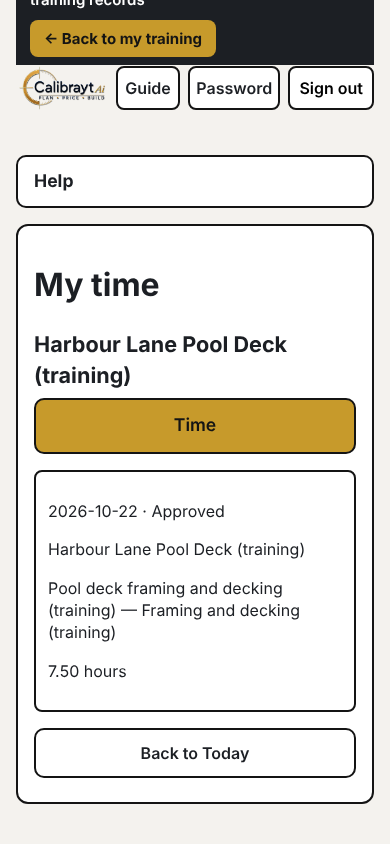
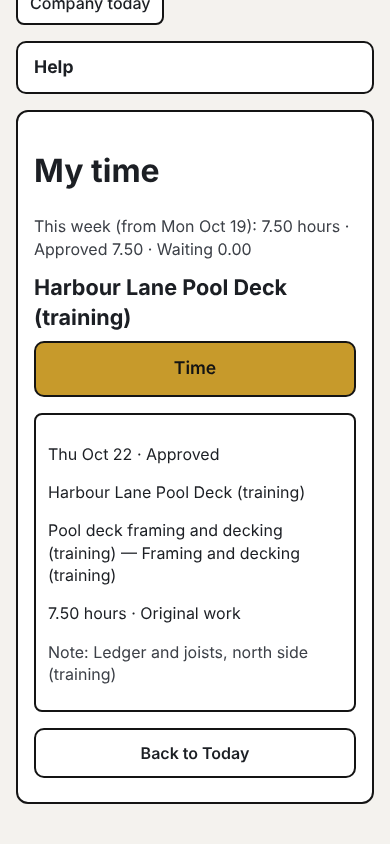
Field Crew module 5 on the final Field time screens (docs/operations/field-time.md)
- f05-send-time: Scheduled today now chooses the booked work (the Work box opens when the item has several
  works); the "Choose different work" workaround text and "Work not found" are gone. The real messages are
  taught: "Choose the work you did.", "Enter the hours worked.", the future-date and 24-hour limits.
- f05-my-time-review: the week line (This week (from Mon …): hours · Approved · Waiting · Returned), each
  entry's status, kind of work and "Waiting for approval".
- f05-returned-time: the red line on Today ("1 time entry was returned to you. Fix and send again on My
  time."), "Returned: <reason>", Fix and send again, "Time sent again for approval."
- f05-approved: Ben approves in the office; Approved on My time; corrections are the office's (Replaced).
- New f05-company-time (Shop / company time on My time, once Ben has pressed "Set up shop and company
  time"; never billed to a customer) and uat-f05-company-time; uat-f05-time, -my-time and -returned
  updated. On the Field map's TIME stage. 27 lessons, 17 Field tests.
- Time pictures re-captured against the merged code (f05-time*, new f05-my-time-week, f05-today-returned,
  f05-company-time; f05-my-time.png no longer used); the capture walk returns, fixes and approves Kevin's
  time and sends shop time through the real pages. Walk and test counts updated; the module-5 test checks
  the final wording.

pytest (field crew, training, workflow map, field time/labour): 90 passed. Walks: evidence_field_crew 8,
[…]

diff --git a/app/training/field_crew.py b/app/training/field_crew.py
@@ -449,118 +449,130 @@ M04 = Module(
 )
 
 # ====================================================================================== 5
-# TIME ENTRY LESSONS (Joel, 22 Oct 2026): everything about Time, My time, returned time and Ben's approval is in
-# this module only (f05-send-time, f05-my-time-review, f05-returned-time, f05-approved; shots f05-time*.png and
-# f05-my-time*.png from the "time" steps of tools/training/capture_field_crew_shots.mjs; UAT uat-f05-time*).
-# Written against the Field Time screens as they are on this branch. The time/labour workflow is being finished
-# on v1/field-time-labour-2026-10-22 (final buttons and statuses: docs/operations/field-time.md): after it merges,
-# re-check these labels and re-capture these pictures here, and nowhere else.
+# TIME ENTRY LESSONS (Joel, 22 Oct 2026): everything about Time, My time, returned time, Ben's approval and
+# shop / company time is in this module only (f05-send-time, f05-my-time-review, f05-returned-time,
+# f05-approved, f05-company-time; shots f05-time*.png, f05-my-time*.png, f05-today-returned.png and
+# f05-company-time.png from the TIME ENTRY steps of tools/training/capture_field_crew_shots.mjs; UAT
+# uat-f05-time*, uat-f05-my-time, uat-f05-returned, uat-f05-approved, uat-f05-company-time). Written against
+# the final Field time screens recorded in docs/operations/field-time.md (merged 22 Oct 2026). When those
+# screens change, re-check these labels and re-capture these pictures here, and nowhere else.
 M05 = Module(
     key="f05", pathway=P, number=5, title="Recording field work",
-    summary="Send your daily hours on the iPhone against the job and the work, check them on My time, fix time "
-            "Ben returns, see when Ben approves them, and record extra "
+    summary="Send your daily hours on the iPhone against the job and the work, check your week on My time, fix "
+            "time Ben returns, see when Ben approves it, record shop and company time, and record extra "
             "work the customer asks for.",
     roles=CREW,
     lessons=(
         Lesson(
             key="f05-send-time", title="Send your hours",
-            what="Send the hours you worked today on the job.",
+            what="Send the hours you worked today on the job, against the work you did.",
             why="The office checks your hours against the job's work before they count. Send them every day.",
             steps=(
-                Step(title="Open Time", app=F, where="Today → Enter time (or Time)",
-                     do="Tap Enter time under the job",
-                     expect="Time, the job name, Date (today), Scheduled today with your booked work, Choose different "
-                            "work, Hours, Note and Send time.",
-                     if_wrong="Asked to confirm the job? Do lesson 'Confirm the job you are on' first.",
+                Step(title="Open Time", app=F, where="Today → Enter time (on the job's card), or Time",
+                     do="Tap Enter time on the job's card",
+                     expect="Time, the job name, Date (today), Scheduled today with a button for your booked work, "
+                            "Choose different work, Hours, Note and Send time.",
+                     if_wrong="Asked to choose the job? Do lesson 'Confirm the job you are on' first. A date in "
+                              "the future is refused: 'Time cannot be recorded for a future date.'",
                      shot="f05-time-scheduled.png", endpoint="field.time_entry"),
-                Step(title="Pick the work", app=F, where="Time → Choose different work",
-                     do="Tap Choose different work. In Work item pick the job's work. In Work pick what you did",
-                     enter=f"Work item: {WORK}. Work: {ACTIVITY}",
-                     expect="Both boxes show your choice.",
-                     why="The Scheduled today button only fills in the work item. When the office booked a work item "
-                         "and not the exact work, you still choose the Work yourself.",
-                     if_wrong="'Work not found.' after Send time means Work was empty: tap Choose different work and "
-                              "pick the Work. Your work is not in the list? Call the office.",
+                Step(title="Pick the work", app=F, where="Time → Scheduled today",
+                     do="Tap the button with your booked work. If a Work box opens, pick the work you did in it",
+                     enter=f"{WORK}, then Work: {ACTIVITY}",
+                     expect="The work is chosen. When the booked work item has only one work, it is filled in for "
+                            "you.",
+                     why="Did something else today? Tap Choose different work and pick the Work item and the "
+                         "Work. Recent work shows what you used last on this job.",
+                     if_wrong="'Choose the work you did.' (or '... on <work item>') means the Work box is empty: "
+                              "pick one. Your work is not there? Call the office.",
                      shot="f05-time.png", endpoint="field.time_entry"),
                 Step(title="Type your hours and a note", app=F, where="Time → Hours and Note",
-                     do="Type the hours. Add a short note",
+                     do="Type the hours. Add a short note if it helps",
                      enter="Hours: 8. Note: Ledger and joists, north side (training)",
-                     expect="Hours in quarter hours: 7.5 is seven and a half hours. Up to 16 hours in one entry.",
-                     if_wrong="'Check the hours and work.' means the hours or the work are missing."),
+                     expect="Hours go in quarter hours: 7.5 is seven and a half hours. Up to 16 hours in one entry "
+                            "and 24 in a day.",
+                     if_wrong="'Enter the hours worked.' means Hours is empty. 'Hours for one day cannot be more "
+                              "than 24.00.' means your day adds up to too much."),
                 Step(title="Send it", app=F, where="Time → Send time",
                      do="Tap Send time",
                      expect="Time sent for approval. My time opens and lists it as Submitted.",
-                     if_wrong="No signal? Time needs a connection. Write your hours down and send them when you have "
-                              "a signal.",
+                     if_wrong="No signal? Time needs a connection. Write your hours down and send them when you "
+                              "have a signal.",
                      shot="f05-time-sent.png", endpoint="field.my_time"),
             ),
-            exercise=f"Send 8 hours on {JOB} for today with a short note, and find it on My time.",
+            exercise=f"Send 8 hours on {JOB} for today against {ACTIVITY}, with a short note, and find it on My "
+                     "time.",
         ),
         Lesson(
-            key="f05-my-time-review", title="Check your hours on My time",
-            what="Look over the hours you sent, every day, on My time.",
+            key="f05-my-time-review", title="Check your week on My time",
+            what="Look over the hours you sent this week, every day, on My time.",
             why="My time is your own record: what you sent, for which job and work, and where it is with Ben.",
             steps=(
-                Step(title="Open My time", app=F, where="Today → My time (or Time → My time)",
+                Step(title="Open My time", app=F, where="Today → My time",
                      do="Tap My time",
-                     expect="My time, then your hours newest first. Each shows the date and its status, the job, "
-                            "the work item — the work, and the hours (for example 8.00 hours).",
+                     expect="My time. At the top: This week (from Mon …): your hours · Approved · Waiting · "
+                            "Returned. Then your entries, newest first.",
                      if_wrong="'No time recorded yet.' means you have not sent any time.",
+                     shot="f05-my-time-week.png", endpoint="field.my_time"),
+                Step(title="Read each entry", app=F, where="My time → an entry",
+                     do="Read the date and status, the job, the work item — work, and the hours",
+                     expect="Submitted: 'Waiting for approval. Ask the office if something is wrong; they can "
+                            "return it to you.' Returned: Ben sent it back. Approved: it counts. Replaced: the "
+                            "office corrected it after approval. The kind of work shows too (Original work, "
+                            "Extra work, Company time).",
+                     if_wrong="An entry is missing? Send it now from Time. Two for the same work and day? Tell "
+                              "Ben; do not send it again.",
                      shot="f05-time-sent.png", endpoint="field.my_time"),
-                Step(title="Read the status", app=F, where="My time → the line above each entry",
-                     do="Read the word after the date",
-                     expect="Submitted: Ben has not looked yet. Returned: Ben sent it back to fix. Approved: Ben "
-                            "accepted it. Replaced: the office corrected it after approval.",
-                     if_wrong="An entry is missing? Send it now from Time. Two for the same work and day? Tell Ben, "
-                              "do not send it again."),
                 Step(title="Check it is right", app=F, where="My time → each entry",
                      do="Check the date, the job, the work and the hours",
                      expect="Every day you worked is there once, on the right job and work.",
                      if_wrong="Wrong but still Submitted? Call Ben; he can return it to you to fix."),
             ),
-            exercise="After sending your Harbour Lane hours, open My time and read the date, the work, the hours and "
-                     "the status.",
+            exercise="After sending your Harbour Lane hours, open My time and read the week's hours at the top and "
+                     "your entry's status.",
         ),
         Lesson(
-            key="f05-returned-time", title="Time the office sent back",
-            what="See what happened to your hours and fix any the office returned.",
-            why="Returned time is not lost. Fix it and send it again.",
+            key="f05-returned-time", title="Time Ben sent back",
+            what="See time Ben returned, and fix it and send it again.",
+            why="Returned time is not lost. Fix what the reason says and send it again.",
             steps=(
-                Step(title="Open My time", app=F, where="Today → My time",
-                     do="Tap My time",
-                     expect="Your hours, newest first. Each shows the date and Submitted, Approved or Returned.",
-                     if_wrong="'No time recorded yet.' means you have not sent any time.",
-                     shot="f05-my-time.png", endpoint="field.my_time"),
-                Step(title="Fix returned time", app=F, where="My time → Returned → Fix and send again",
-                     do="Tap Fix and send again",
-                     expect="Time opens with Returned: and the office's reason at the top, and your hours filled in.",
-                     if_wrong="No Fix and send again button? Only Returned time can be fixed. Approved time is done.",
+                Step(title="See it on Today", app=F, where="Field → Today (red line at the top)",
+                     do="Tap the red line: '1 time entry was returned to you. Fix and send again on My time.'",
+                     expect="My time opens.",
+                     if_wrong="No red line? Nothing was returned. My time also says how many entries were returned.",
+                     shot="f05-today-returned.png", endpoint="field.today"),
+                Step(title="Read the reason", app=F, where="My time → the Returned entry",
+                     do="Read 'Returned: …' under the entry",
+                     expect="Ben's reason, for example 'Returned: You left at 3:30. Please send 7.5 hours.', and "
+                            "Fix and send again.",
+                     if_wrong="Do not understand the reason? Call Ben before you send it again.",
                      shot="f05-time-returned.png", endpoint="field.my_time"),
-                Step(title="Change it and send", app=F, where="Time (returned)",
-                     do="Change what the reason says. Tap Send time",
+                Step(title="Fix it and send it again", app=F, where="My time → Fix and send again",
+                     do="Tap Fix and send again. Change what the reason says. Tap Send time",
                      enter="For example: Hours 7.5",
-                     expect="Time sent for approval. My time shows it as Submitted again.",
-                     if_wrong="Do not understand the reason? Call the office before you send it again.",
+                     expect="Time opens with Returned: and the reason at the top and your entry filled in. After "
+                            "Send time: 'Time sent again for approval.' My time shows it as Submitted again.",
+                     if_wrong="No Fix and send again button? Only Returned time can be fixed. Approved time is done.",
                      shot="f05-time-fix.png", endpoint="field.time_entry"),
             ),
-            exercise="When the trainer returns your Harbour Lane time on the training site, fix it from My time and "
-                     "send it again.",
+            exercise="When the trainer returns your Harbour Lane time on the training site, open it from the red line "
+                     "on Today, fix it and send it again.",
         ),
         Lesson(
             key="f05-approved", title="When Ben approves your hours",
             what="See your hours approved, and know what happens if something is still wrong after that.",
-            why="Approved hours are final. Only the office can correct them, and the first entry is kept.",
+            why="Approved hours are final and count for the job. Only the office can correct them, and the first "
+                "entry is kept.",
             steps=(
                 Step(title="Ben approves (the office's step)", app=F, where="Nothing to do on Field",
-                     do="Wait for Ben. He checks your hours in the office and presses Approve, or Return with a "
+                     do="Wait for Ben. In the office he opens your entry and presses Approve, or Return with a "
                         "reason",
                      expect="You do nothing on Field for this step.",
                      if_wrong="Waiting a long time? Ask Ben. Field does not send a message when he approves."),
                 Step(title="See it approved", app=F, where="Today → My time",
                      do="Tap My time",
-                     expect="The entry says Approved. There is no Fix and send again button on it.",
-                     if_wrong="Still Submitted? Ben has not looked yet. Returned? Do lesson 'Time the office sent "
-                              "back'.",
+                     expect="The entry says Approved, with no Fix and send again and no 'Waiting for approval'. The "
+                            "week line counts it under Approved.",
+                     if_wrong="Still Submitted? Ben has not looked yet. Returned? Do lesson 'Time Ben sent back'.",
                      shot="f05-time-approved.png", endpoint="field.my_time"),
                 Step(title="Wrong after it was approved", app=F, where="My time",
                      do="Do not send the same hours again. Call Ben",
@@ -570,6 +582,32 @@ M05 = Module(
             ),
             exercise="When Ben approves your fixed Harbour Lane hours on the training site, open My time and find "
                      "Approved.",
+        ),
+        Lesson(
+            key="f05-company-time", title="Shop and company time",
+            what="Send hours that are not for a customer's job: the shop and yard, equipment upkeep, picking up "
+                 "material, safety meetings.",
+            why="Company time is never billed to a customer. Keep it off the customer's job.",
+            steps=(
+                Step(title="Open Shop / company time", app=F, where="Today → My time → Shop / company time",
+                     do="Tap My time, then Shop / company time",
+                     expect="Time for 'Shop and company time', with 'Company time: not a customer's job, never "
+                            "billed to a customer.'",
+                     why="The office sets it up once (Set up shop and company time). Until then the button is not "
+                         "on My time.",
+                     if_wrong="No Shop / company time button? Ask Ben to set it up.",
+                     shot="f05-company-time.png", endpoint="field.my_time"),
+                Step(title="Pick the work and send", app=F, where="Shop and company time → Work",
+                     do="Pick the Work, type the hours, tap Send time",
+                     enter="Work: Equipment and vehicle upkeep. Hours: 1.5",
+                     expect="Time sent for approval. My time lists it with Company time.",
+                     why="The Works are: Shop and yard, Equipment and vehicle upkeep, Material pickup and "
+                         "deliveries, Safety meetings and training, Office and estimating. There is no Extra work "
+                         "here, and it does not change the job you are on today.",
+                     if_wrong="'Choose the work you did.' means Work is empty."),
+            ),
+            exercise="Once Ben has set it up on the training site, send 1.5 hours of Equipment and vehicle upkeep as "
+                     "shop / company time and find it on My time.",
         ),
         Lesson(
             key="f05-extra-work", title="Extra work the customer asks for",
@@ -896,21 +934,29 @@ UAT_CASES = (
        "The plan PDF opens on the iPhone. Back to the job returns to the job."),
     _u("uat-f05-time", "f05", "Send time",
        "Field → Today → Enter time",
-       "Tap Choose different work, pick the Work item and the Work, type 8 hours and a note, tap Send time.",
-       "Time sent for approval; My time lists the day as Submitted."),
+       "Tap the Scheduled today button for your work (pick the Work if the box opens), type 8 hours and a note, "
+       "tap Send time.",
+       "Time sent for approval; My time lists the day as Submitted and the week line counts it under Waiting."),
     _u("uat-f05-my-time", "f05", "Review hours on My time",
        "Field → Today → My time, after sending today's hours",
        "Read the newest entry.",
-       "It shows today's date, Submitted, the job, the work item and the work, and the hours you sent."),
+       "The week line shows this week's hours by Approved, Waiting and Returned; the entry shows today's date, "
+       "Submitted, the job, the work item and the work, the hours and 'Waiting for approval'."),
     _u("uat-f05-returned", "f05", "Fix returned time",
-       "Field → My time, after the office returns your time with a reason",
-       "Tap Fix and send again, change the hours, tap Send time.",
-       "Time opens with Returned: and the reason; after sending, My time shows it as Submitted."),
+       "Field → Today, after the office returns your time with a reason",
+       "Tap the red returned-time line, then Fix and send again, change the hours, tap Send time.",
+       "Today's line opens My time with 'Returned: <reason>'; Time opens with the entry filled in; after sending: "
+       "'Time sent again for approval.' and My time shows it as Submitted."),
     _u("uat-f05-approved", "f05", "Ben approves the hours (Ben's step, then the crew's check)",
        "Office: Ben opens the time waiting for review and presses Approve. Then Field → My time on the iPhone",
        "After Ben approves your fixed entry, open My time.",
        "The entry says Approved and has no Fix and send again button. A failing result here goes on Ben's "
        "administrator dashboard."),
+    _u("uat-f05-company-time", "f05", "Shop / company time",
+       "Office first: Ben presses Set up shop and company time (Time review, once). Then Field → My time",
+       "Tap Shop / company time, pick Equipment and vehicle upkeep, type 1.5, tap Send time.",
+       "Time sent for approval; My time lists it as Company time; it is not on the customer's job and Today's "
+       "job is unchanged."),
     _u("uat-f05-extra-work", "f05", "Record extra work",
        "Field → Today → Extra work",
        "Describe the customer's request, name a new work item, tap Record extra work.",

diff --git a/tests/test_field_crew_training.py b/tests/test_field_crew_training.py
@@ -365,7 +365,7 @@ def test_time_entry_my_time_correction_and_approval_are_taught_in_module_5_only(
     kept in module 5 so they are re-captured in one place after the time/labour branch merges."""
     f05 = next(m for m in C.modules_for(C.PATHWAY_FIELD_CREW, "FIELD") if m.key == "f05")
     keys = [lesson.key for lesson in f05.lessons]
-    for key in ("f05-send-time", "f05-my-time-review", "f05-returned-time", "f05-approved"):
+    for key in ("f05-send-time", "f05-my-time-review", "f05-returned-time", "f05-approved", "f05-company-time"):
         assert key in keys
     time_endpoints = {"field.time_entry", "field.my_time"}
     for module, lesson in _field_lessons():
@@ -373,11 +373,18 @@ def test_time_entry_my_time_correction_and_approval_are_taught_in_module_5_only(
             continue
         assert not any(s.endpoint in time_endpoints for s in lesson.steps), lesson.key
     cases = {c.key: c for c in C.uat_for(C.PATHWAY_FIELD_CREW, "FIELD")}
-    for key in ("uat-f05-time", "uat-f05-my-time", "uat-f05-returned", "uat-f05-approved"):
+    for key in ("uat-f05-time", "uat-f05-my-time", "uat-f05-returned", "uat-f05-approved", "uat-f05-company-time"):
         assert cases[key].module_key == "f05"
     assert "Approve" in cases["uat-f05-approved"].start and "Approved" in cases["uat-f05-approved"].expected
     approved = next(lesson for lesson in f05.lessons if lesson.key == "f05-approved")
     assert any(s.shot == "f05-time-approved.png" for s in approved.steps)
+    # The final screens (docs/operations/field-time.md, merged 22 Oct 2026): Scheduled today works, so no
+    # workaround text; the returned line on Today; "Time sent again for approval."; shop / company time.
+    text = " ".join(" ".join((s.do, s.expect, s.if_wrong, s.why)) for lesson in f05.lessons for s in lesson.steps)
+    for phrase in ("Time sent again for approval.", "returned to you. Fix and send again on My time.",
+                   "This week (from Mon", "Set up shop and company time", "Waiting for approval"):
+        assert phrase in text, phrase
+    assert "Work not found" not in text
 
 
 def test_after_a_result_the_next_untested_test_opens_and_continue_never_reopens_a_tested_one(app):

diff --git a/app/workflow_map/definition.py b/app/workflow_map/definition.py
@@ -545,9 +545,13 @@ FIELD_STAGES: Tuple[Stage, ...] = (
             S("approved", "The office approves your time", availability=OTHER_PARTY,
               note="Ben reviews and approves your hours in the office; My time then shows Approved.",
               lesson="f05-approved"),
+            S("company-time", "Shop and company time", _field("field.my_time", "Open My time"),
+              lesson="f05-company-time"),
         ),
-        lessons=("f05-send-time", "f05-my-time-review", "f05-returned-time", "f05-approved", "f08-working-day"),
-        uat=("uat-f05-time", "uat-f05-my-time", "uat-f05-returned", "uat-f05-approved", "uat-f08-day"),
+        lessons=("f05-send-time", "f05-my-time-review", "f05-returned-time", "f05-approved", "f05-company-time",
+                 "f08-working-day"),
+        uat=("uat-f05-time", "uat-f05-my-time", "uat-f05-returned", "uat-f05-approved", "uat-f05-company-time",
+             "uat-f08-day"),
         roles=CONTRACTOR_ROLES,
         loops=(Loop("f-today", "Tomorrow → Today", "The next working day starts on Today again.", "Back to Today"),),
     ),
